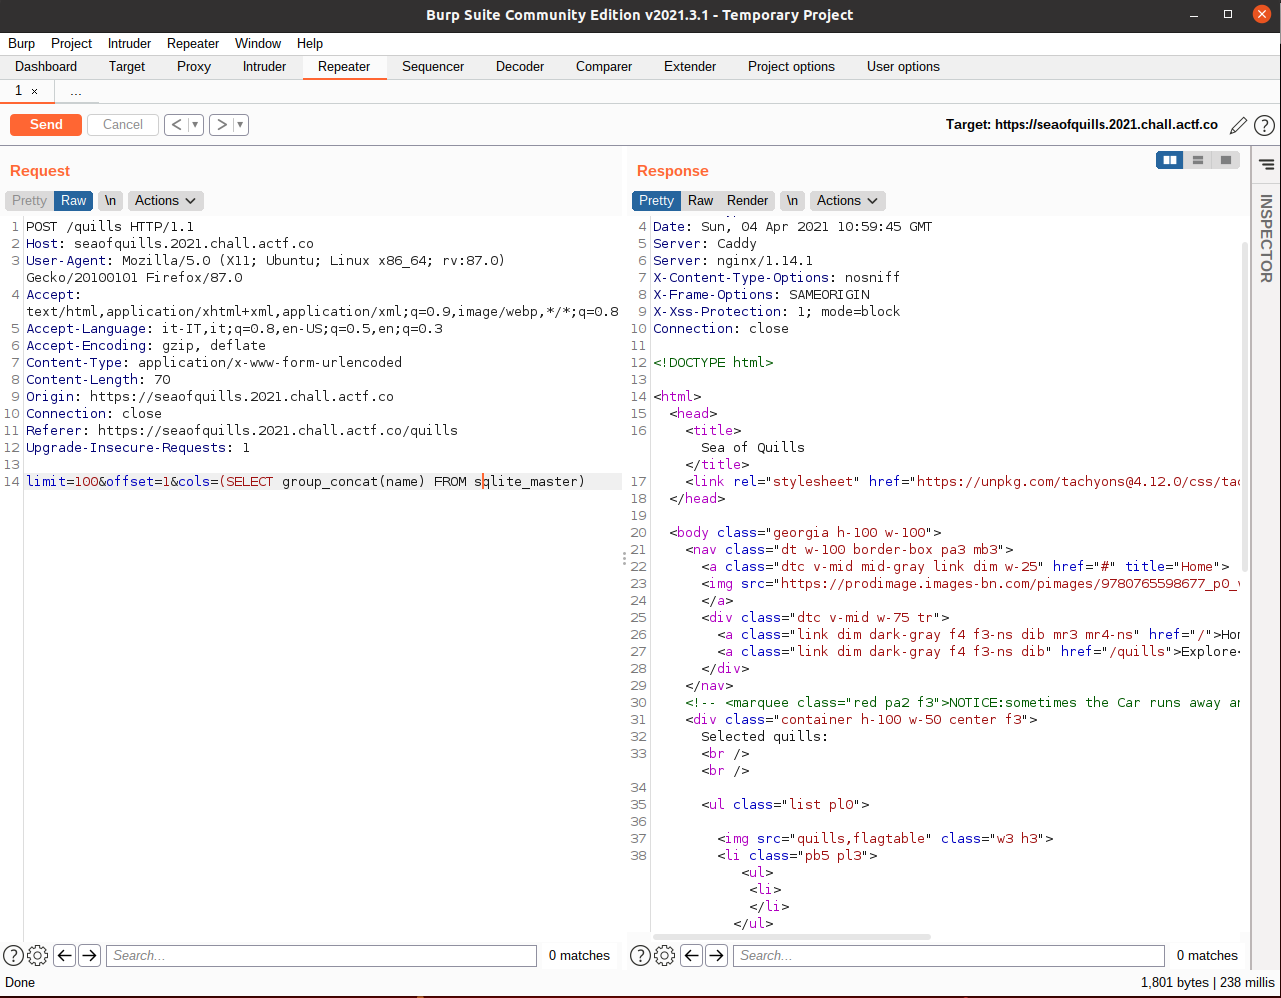
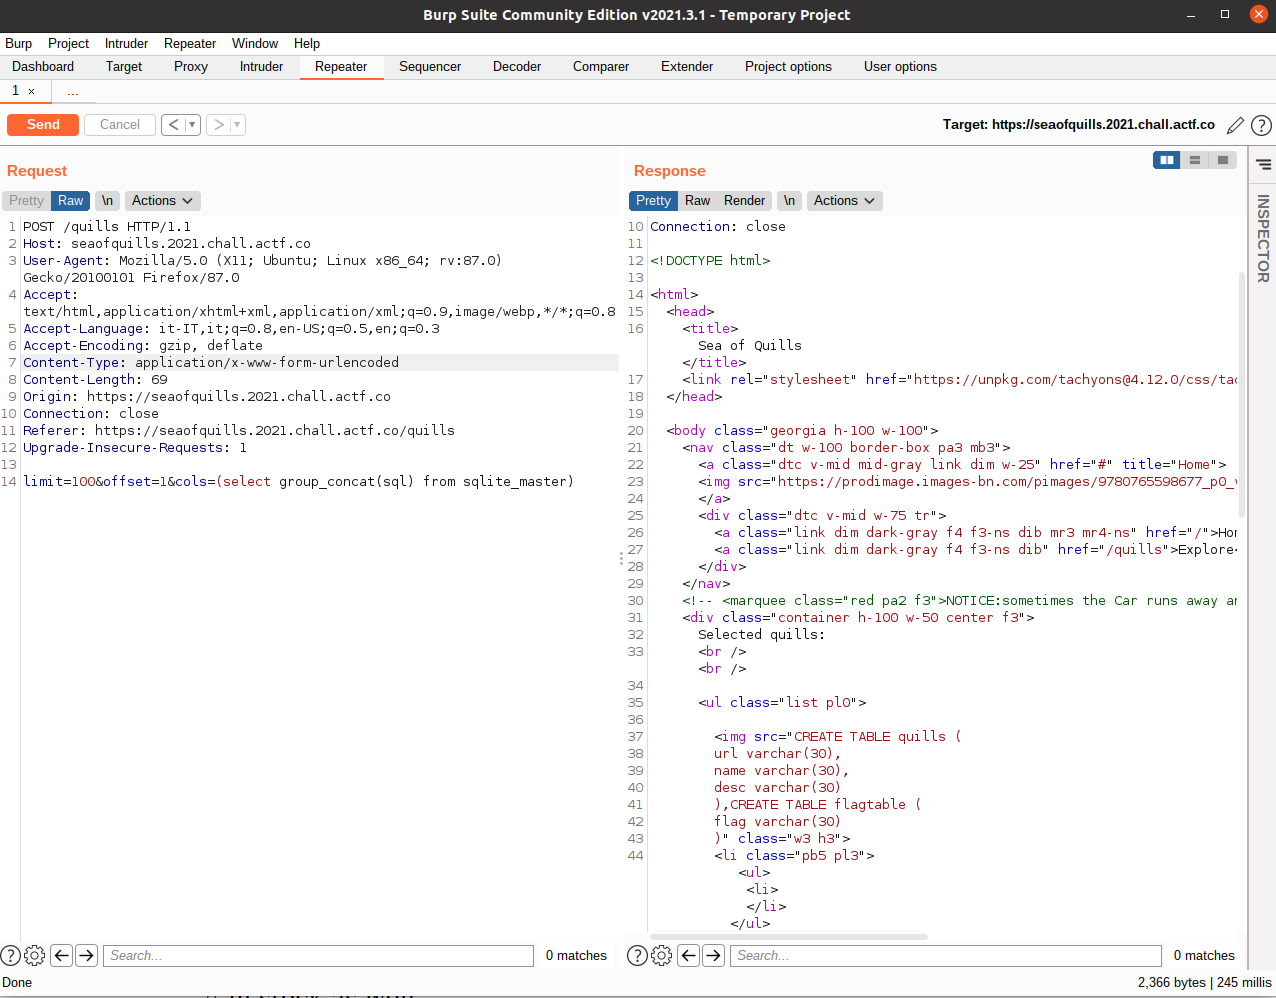
fixed sea_of_quills challenge

diff --git a/angstromCTF_2021/sea_of_quills/README.md b/angstromCTF_2021/sea_of_quills/README.md
@@ -17,24 +17,23 @@ Looking at the code we can see that there is a blacklist implemented to prevent 
 Having the parenthesis we can use a subquery to get the output we want.
 We'll inject our subquery in the "cols" field.
 
-We need first to enumerate the table names of the database.
+We need first to enumerate the table name and structures of the database.
 To do so, the query should be: 
 
 ```
-SELECT name FROM sqlite_master
+SELECT sql FROM sqlite_master
 ```
 
 Now, we can't use this query because we column name should be just one while this query probably returns more than one rows, so we should use the group_concat function to get just one output from the query.
 
 ```
-SELECT group_concat(name) FROM sqlite_master
+SELECT group_concat(sql) FROM sqlite_master
 ```
 
 ![table name](pictures/table_names.png)
 
 So there are two tables in this database, `quills` and `flagtable`.
-We are interested in `flagtable` table.
-So we try to guess the column name of the flag table, trying with `flag`!
+We are interested in `flagtable` table, where probably the flag is stored, we see also that it has a column called `flag`.
 
 ```
 SELECT flag FROM flagtable
